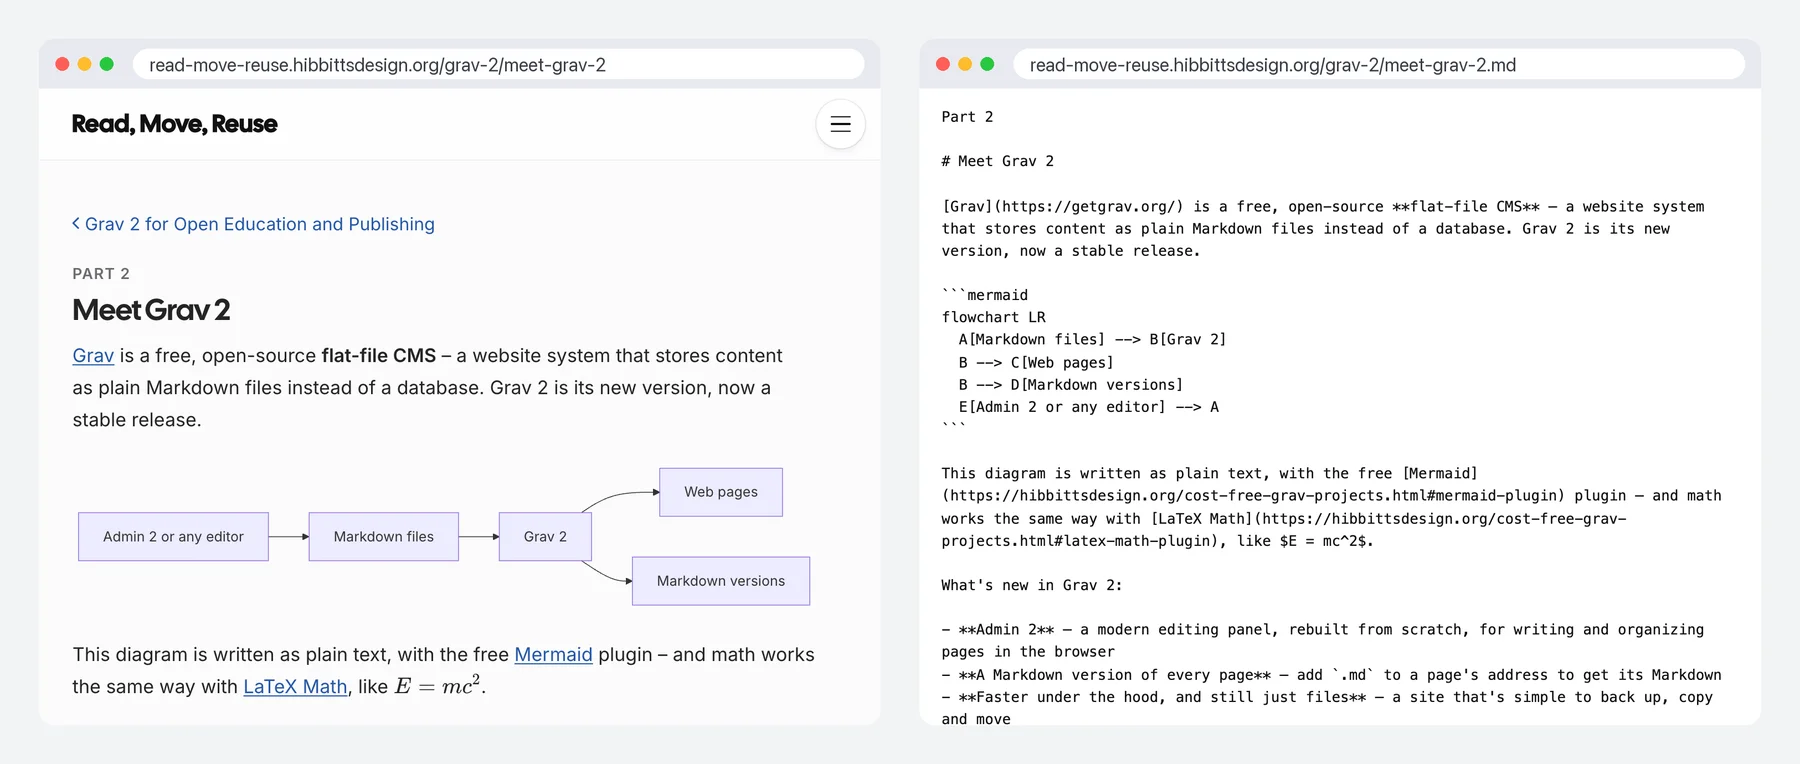
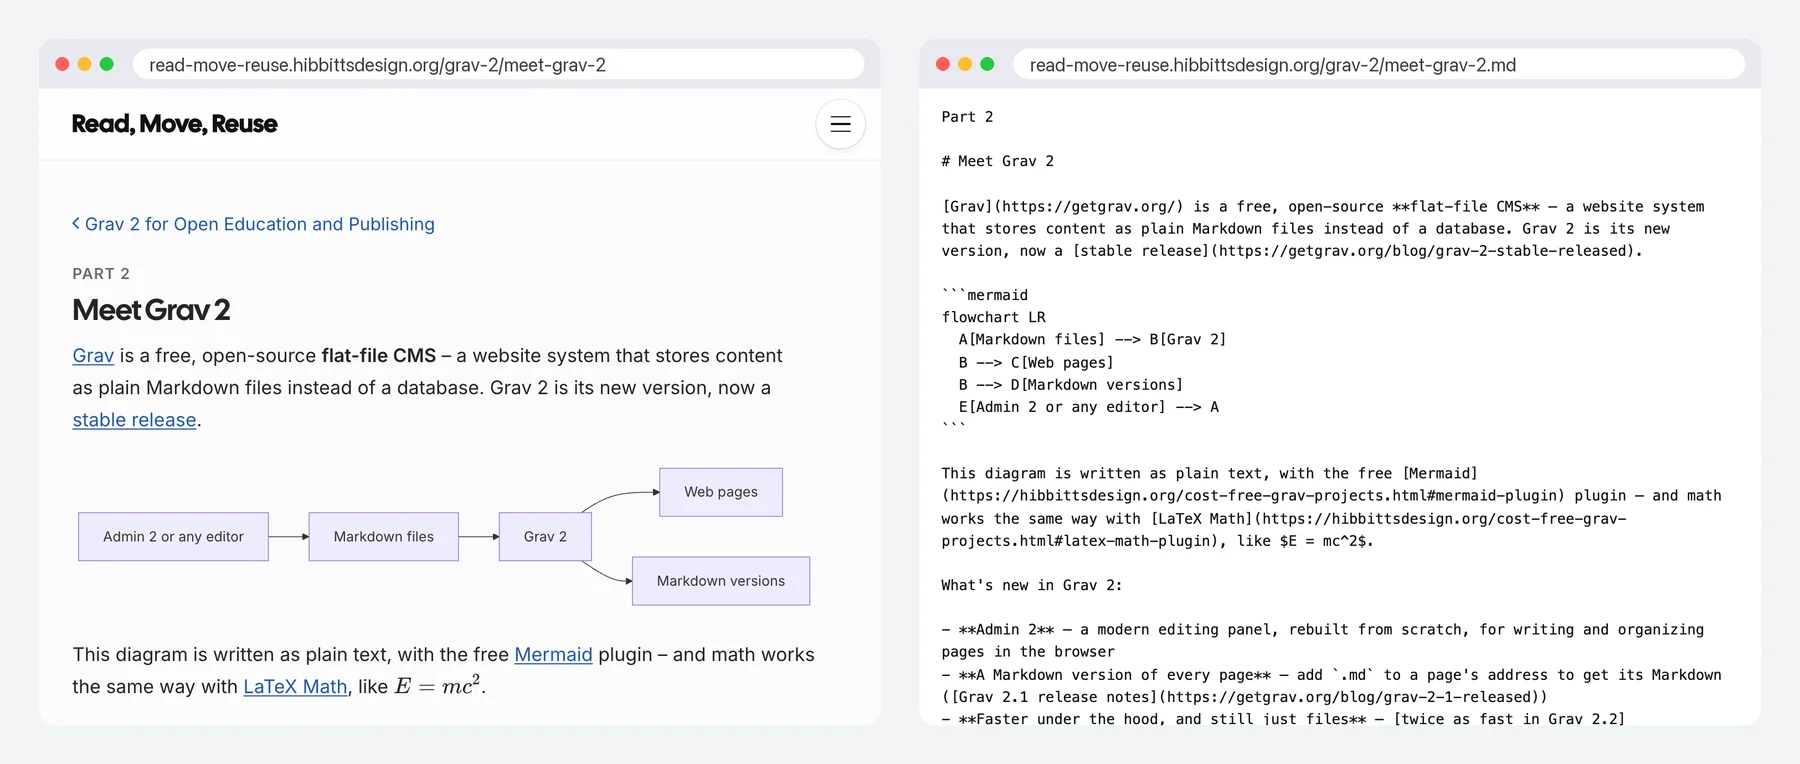
Content updates.

Changed region(s): [[0.5289, 0.9031, 0.9644, 0.9634], [0.5911, 0.301, 0.9022, 0.3312], [0.0311, 0.5419, 0.1244, 0.572]]

diff --git a/pages/05.grav-2/02.meet-grav-2/section.md b/pages/05.grav-2/02.meet-grav-2/section.md
@@ -6,7 +6,7 @@ child_type: section-page
 side_box: 'Grav''s own site, with themes, plugins and downloads: [getgrav.org](https://getgrav.org/?target=_blank).'
 ---
 
-[Grav](https://getgrav.org/?target=_blank) is a free, open-source **flat-file CMS** – a website system that stores content as plain Markdown files instead of a database. Grav 2 is its new version, now a stable release.
+[Grav](https://getgrav.org/?target=_blank) is a free, open-source **flat-file CMS** – a website system that stores content as plain Markdown files instead of a database. Grav 2 is its new version, now a [stable release](https://getgrav.org/blog/grav-2-stable-released?target=_blank).
 
 ```mermaid
 flowchart LR
@@ -21,8 +21,8 @@ This diagram is written as plain text, with the free [Mermaid](https://hibbittsd
 What's new in Grav 2:
 
 - **Admin 2** – a modern editing panel, rebuilt from scratch, for writing and organizing pages in the browser
-- **A Markdown version of every page** – add `.md` to a page's address to get its Markdown
-- **Faster under the hood, and still just files** – a site that's simple to back up, copy and move
+- **A Markdown version of every page** – add `.md` to a page's address to get its Markdown ([Grav 2.1 release notes](https://getgrav.org/blog/grav-2-1-released?target=_blank))
+- **Faster under the hood, and still just files** – [twice as fast in Grav 2.2](https://getgrav.org/blog/grav-2-2-released?target=_blank), by the Grav team's measurements, and a site that's simple to back up, copy and move
 
 ![This page in a browser, beside its Markdown version at the same address with .md added – the same text, with the diagram written as plain text](grav-2-page-and-markdown.webp)
 
@@ -43,6 +43,8 @@ What Grav has always had:
 | Block editor | Markdown, with shortcodes for extras like callouts and embeds |
 | Database | None – just files |
 | A backup plugin | Copy the site's folder |
+
+For a detailed look, including when WordPress is the better pick, see [Grav vs WordPress: An Honest Comparison](https://getgrav.org/blog/grav-vs-wordpress?target=_blank) by Grav's creator.
 
 [hideifembedded]
 Try the Admin 2 panel: read-only demos for [Open Publishing Space](https://try.hibbittsdesign.org/grav-skeleton-open-publishing-space/admin?target=_blank) and [Open Course Hub](https://try.hibbittsdesign.org/grav-skeleton-course-hub/admin?target=_blank) (the sign-in details are on their sign-in screens).

diff --git a/pages/05.grav-2/06.getting-started/section.md b/pages/05.grav-2/06.getting-started/section.md
@@ -23,9 +23,9 @@ Then set up your own site:
 > **Good to know:**
 >
 > - You'll need a PHP web host (PHP 8.3 or newer, no database), and you – or your host – look after the site's updates and backups
-> - Editing is in Markdown – quick to learn, but not a word processor, so some colleagues may need a little help to start
+> - Editing is in Markdown – quick to learn, but not a word processor, so some colleagues may need a little help to start (the premium Editor Pro plugin shows formatted text instead)
 > - Some Grav 1.7 plugins and themes aren't updated for Grav 2 yet
-> - There's no built-in import from WordPress – existing pages need copying over or converting to Markdown
+> - There's no one-click import from WordPress – existing pages need converting to Markdown ([the usual route](https://getgrav.org/blog/grav-vs-wordpress?target=_blank))
 > - There's no one-click ebook (EPUB or formatted PDF) – pages print cleanly from the browser
 > - Grav extras like definition and objectives boxes are shortcodes that other tools would need converted
 

diff --git a/pages/05.grav-2/resources/default.md b/pages/05.grav-2/resources/default.md
@@ -13,6 +13,7 @@ Links for going further with Grav 2, the free projects built on it, and Markdown
 - [Grav Learn](https://learn.getgrav.org/) – the documentation for Grav
 - [Grav on GitHub](https://github.com/getgrav/grav) – the source code, and where to report issues
 - [Grav forum](https://getgrav.org/forum) and [Grav Discord](https://chat.getgrav.org/) – the community, for questions and help
+- From the Grav blog: [Grav 2.0 Released!](https://getgrav.org/blog/grav-2-stable-released) · [Grav 2.1: Every Page Speaks Markdown](https://getgrav.org/blog/grav-2-1-released) · [Grav 2.2: 2x Faster](https://getgrav.org/blog/grav-2-2-released) · [Grav vs WordPress: An Honest Comparison](https://getgrav.org/blog/grav-vs-wordpress)
 
 ## The Projects
 
